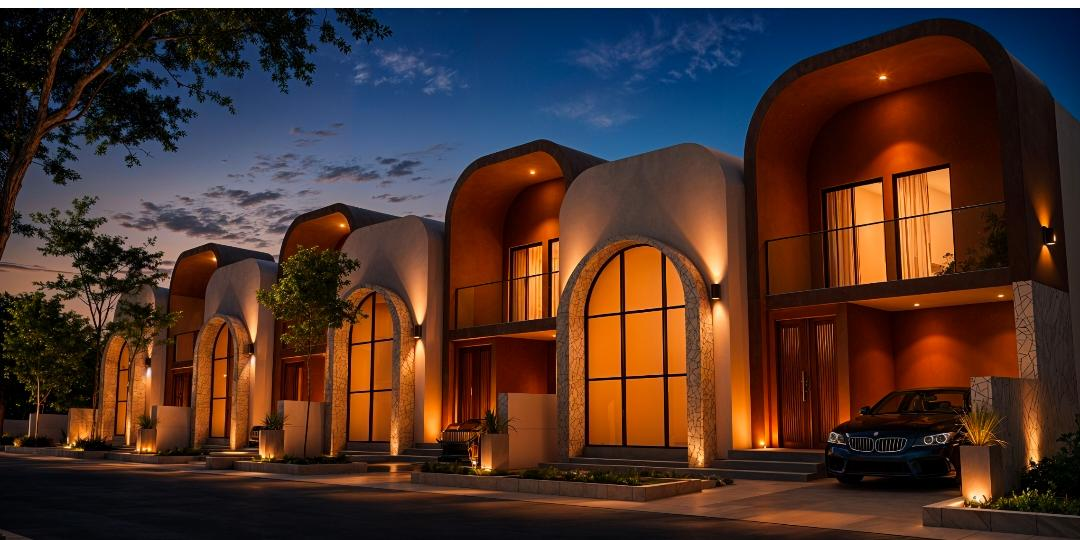
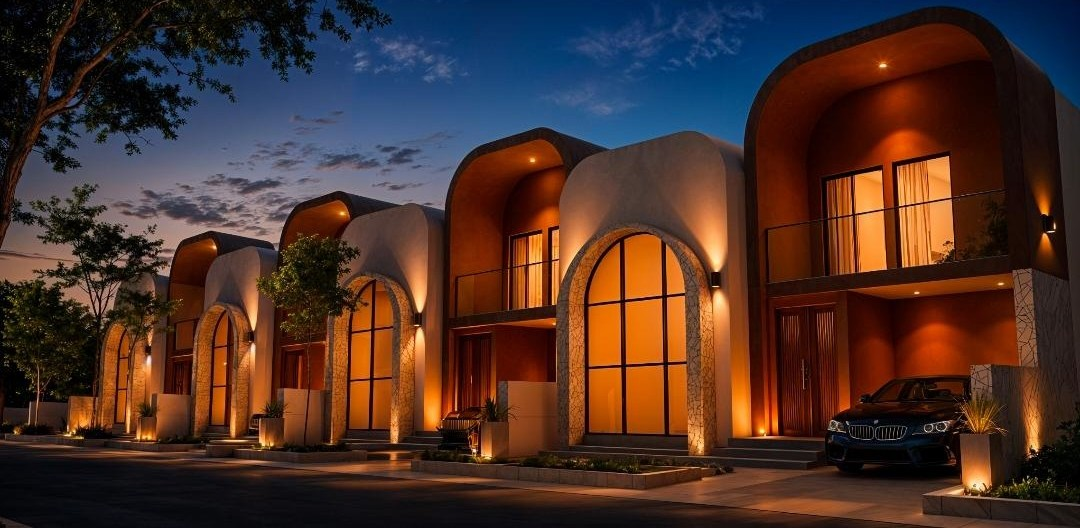
update img

diff --git a/src/components/sections/ProjectsSection.tsx b/src/components/sections/ProjectsSection.tsx
@@ -86,7 +86,7 @@ function ProjectShowcaseRow({
   return (
     <article className="grid gap-5 md:grid-cols-2 lg:grid-cols-4 lg:items-stretch lg:gap-6">
       <div
-        className={`relative aspect-[16/10] overflow-hidden rounded-3xl transition-all duration-500 ${
+        className={`relative aspect-[16/10] overflow-hidden rounded-3xl transition-all duration-500 lg:col-span-1 ${
           isVisible ? "translate-y-0 opacity-100" : "translate-y-6 opacity-0"
         }`}
       >
@@ -100,7 +100,7 @@ function ProjectShowcaseRow({
       </div>
 
       <div
-        className={`flex flex-col rounded-3xl border border-[#d7d0c2] bg-[#F5F1E9]/60 p-6 transition-all duration-500 delay-100 sm:p-7 ${
+        className={`flex flex-col rounded-3xl border border-[#d7d0c2] bg-[#F5F1E9]/60 p-6 transition-all duration-500 delay-100 sm:p-5 min-w-0 lg:col-span-1 w-full max-w-full box-border ${
           isVisible ? "translate-y-0 opacity-100" : "translate-y-6 opacity-0"
         }`}
       >
@@ -128,7 +128,7 @@ function ProjectShowcaseRow({
       </div>
 
       <div
-        className={`grid grid-cols-2 gap-3 transition-all duration-500 delay-200 ${
+        className={`grid grid-cols-2 gap-3 transition-all duration-500 delay-200 lg:col-span-1 ${
           isVisible ? "translate-y-0 opacity-100" : "translate-y-6 opacity-0"
         }`}
       >
@@ -149,7 +149,7 @@ function ProjectShowcaseRow({
       </div>
 
       <div
-        className={`transition-all duration-500 delay-300 ${
+        className={`transition-all duration-500 delay-300 lg:col-span-1 ${
           isVisible ? "translate-y-0 opacity-100" : "translate-y-6 opacity-0"
         }`}
       >
